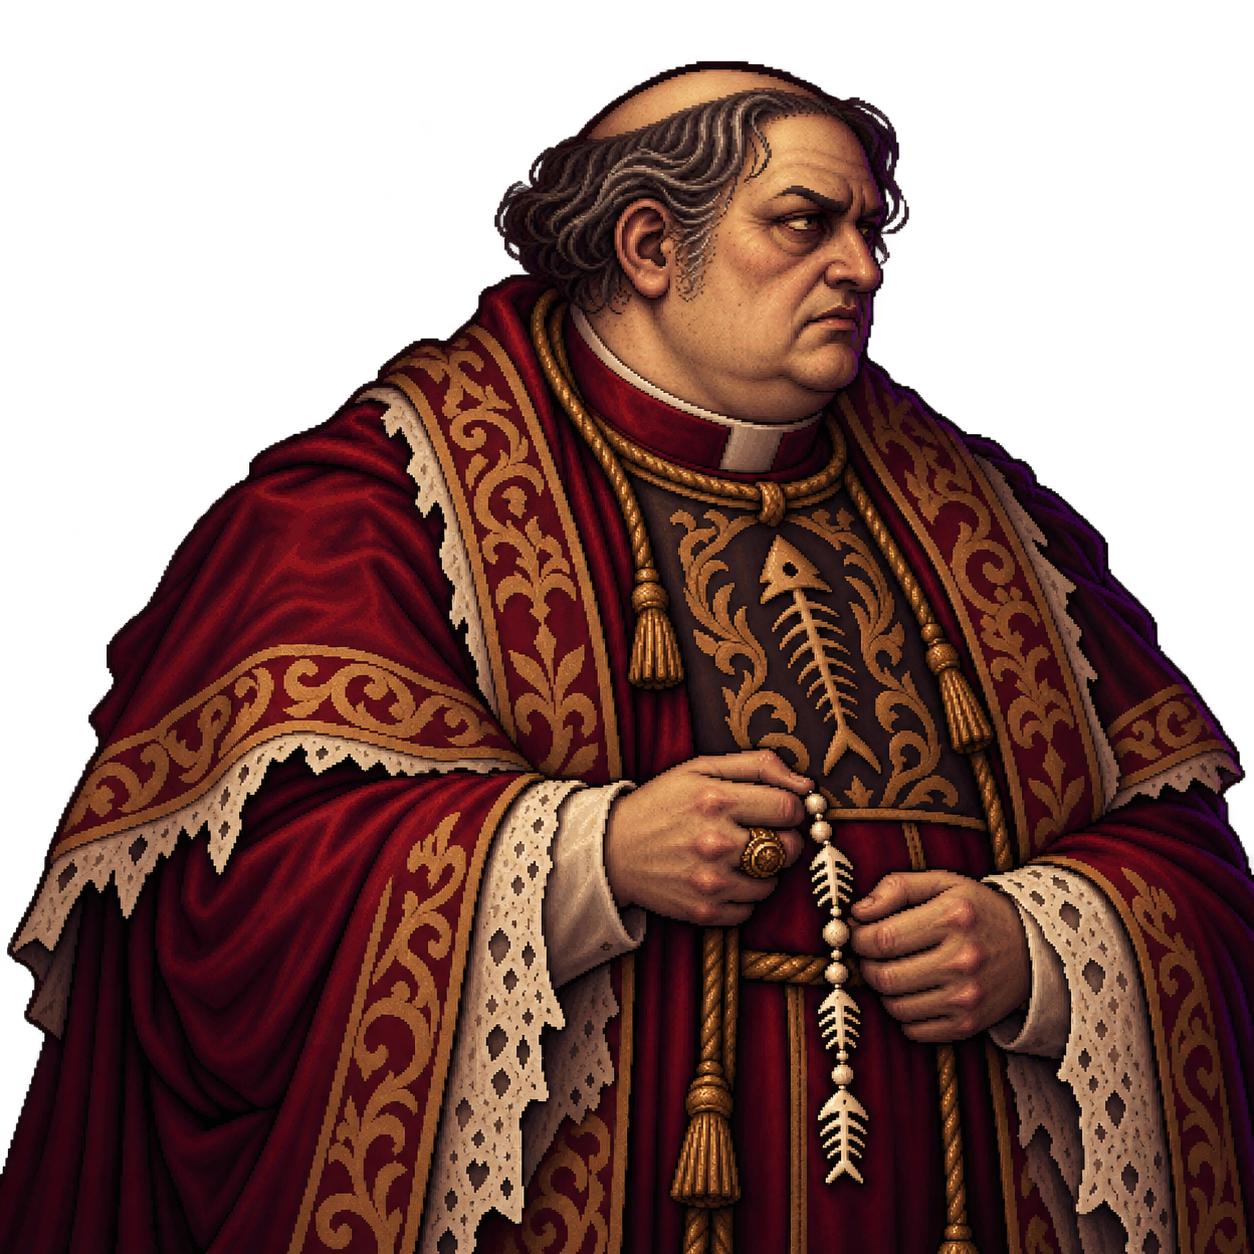
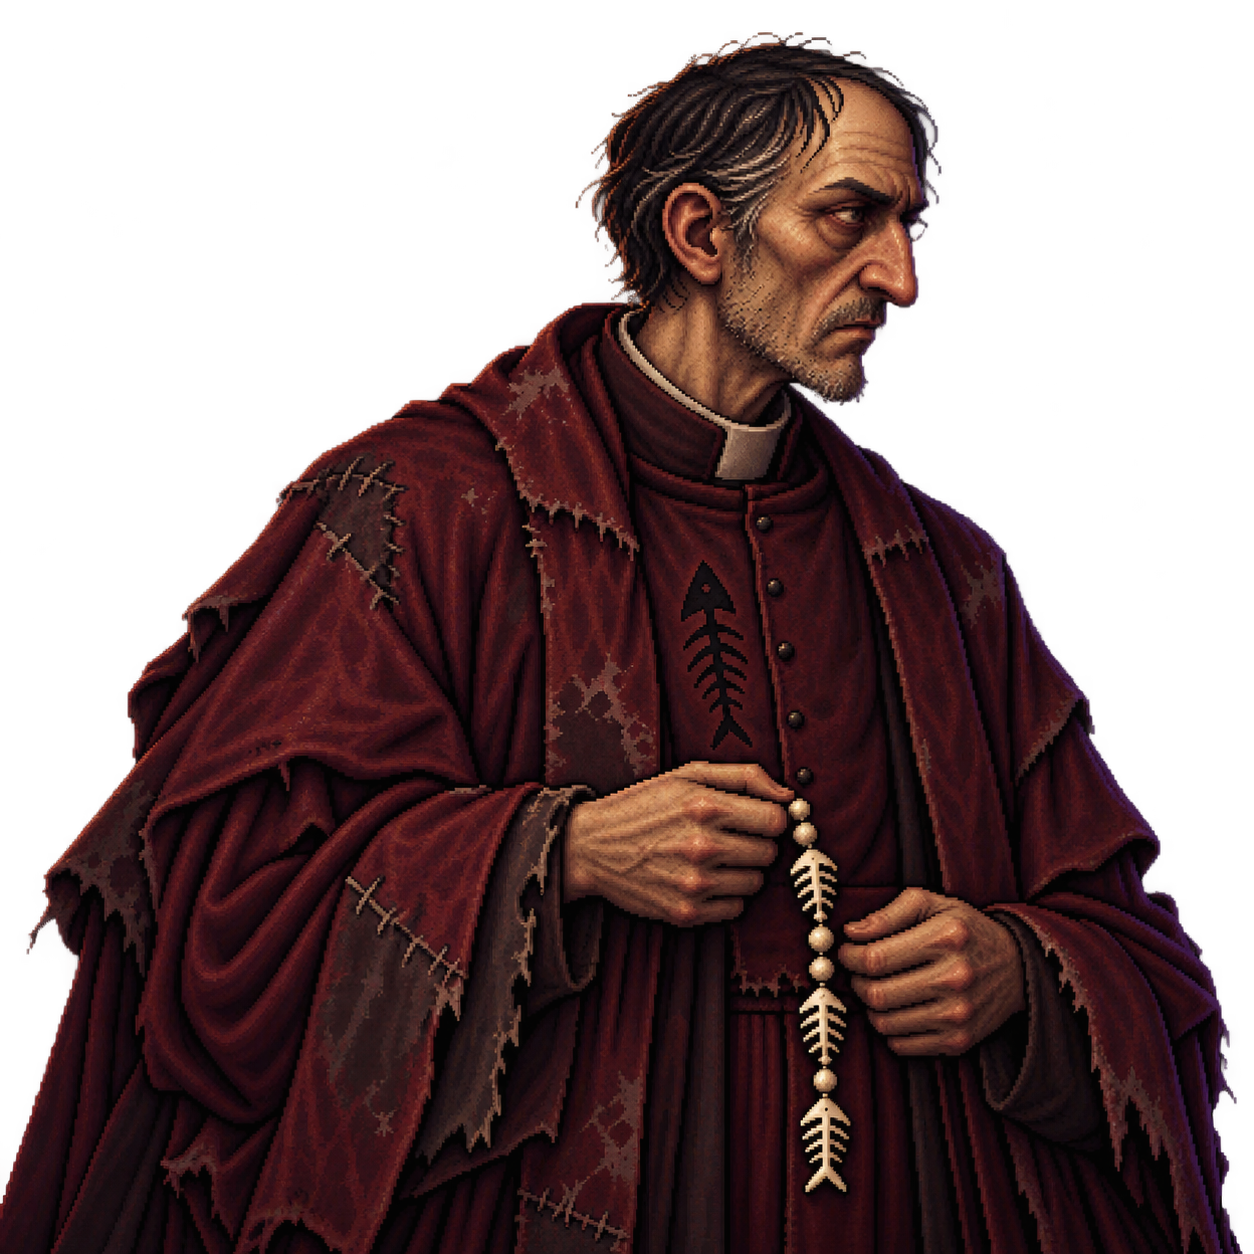
Portraits: the poorer village priest and the new fishing elder
- npc_pastor redrawn gaunt and poor, no longer the Crimson Priest's twin; it is the arena's first boss
- npc_fisher_elder (old man in a knitted cap) built as portrait_fisher_elder for later
- the black-background cut closes gaps and fills holes, so dark folds at the edge stay solid

Claude-Session: https://claude.ai/code/session_019MjjXLha8yNk8xC45jXx5G

diff --git a/Tools/game/build_game_assets.py b/Tools/game/build_game_assets.py
@@ -138,6 +138,7 @@ PORTRAITS = [
     ("portrait_captain", "portraits/npc_guard_captain.png"),
     ("portrait_crimson", "portraits/crimson_priest.png"),
     ("portrait_lord", "ref/lord_alvaro.png"),
+    ("portrait_fisher_elder", "portraits/npc_fisher_elder.png"),
 ]
 PORTRAIT_PX = 288   # 96 точек сцены арены × 3
 ICON_PX = 120
@@ -202,7 +203,10 @@ def cut_black(img, thr=10):
     low = rgb.max(2) <= thr
     lab, n = nd.label(low)
     edge = set(np.unique(np.concatenate([lab[0], lab[-1], lab[:, 0], lab[:, -1]]))) - {0}
-    alpha = (~np.isin(lab, list(edge))).astype(float)
+    fg = ~np.isin(lab, list(edge))
+    # тёмные складки у края фигуры не должны становиться дырами: сначала «закрыть» щели, потом залить дыры
+    fg = nd.binary_fill_holes(nd.binary_closing(fg, iterations=6))
+    alpha = fg.astype(float)
     alpha = nd.gaussian_filter(alpha, 0.7)
     return Image.fromarray(np.dstack([rgb, alpha * 255]).astype("uint8"), "RGBA")
 
@@ -280,7 +284,12 @@ def build_portraits(report):
             continue
         src = Image.open(path)
         has_alpha = src.mode == "RGBA" and np.asarray(src)[..., 3].min() < 128
-        img = cut_alpha(src) if has_alpha else cut_checker(src)
+        if has_alpha:
+            img = cut_alpha(src)
+        elif max(src.convert("RGB").getpixel((3, 3))) <= 12:
+            img = cut_black(src, thr=4)    # ровный чёрный фон
+        else:
+            img = cut_checker(src)
         img = img.crop(img.getbbox())
         k = PORTRAIT_PX / max(img.width, img.height)
         small = img.resize((max(1, round(img.width * k)), max(1, round(img.height * k))), Image.LANCZOS)
